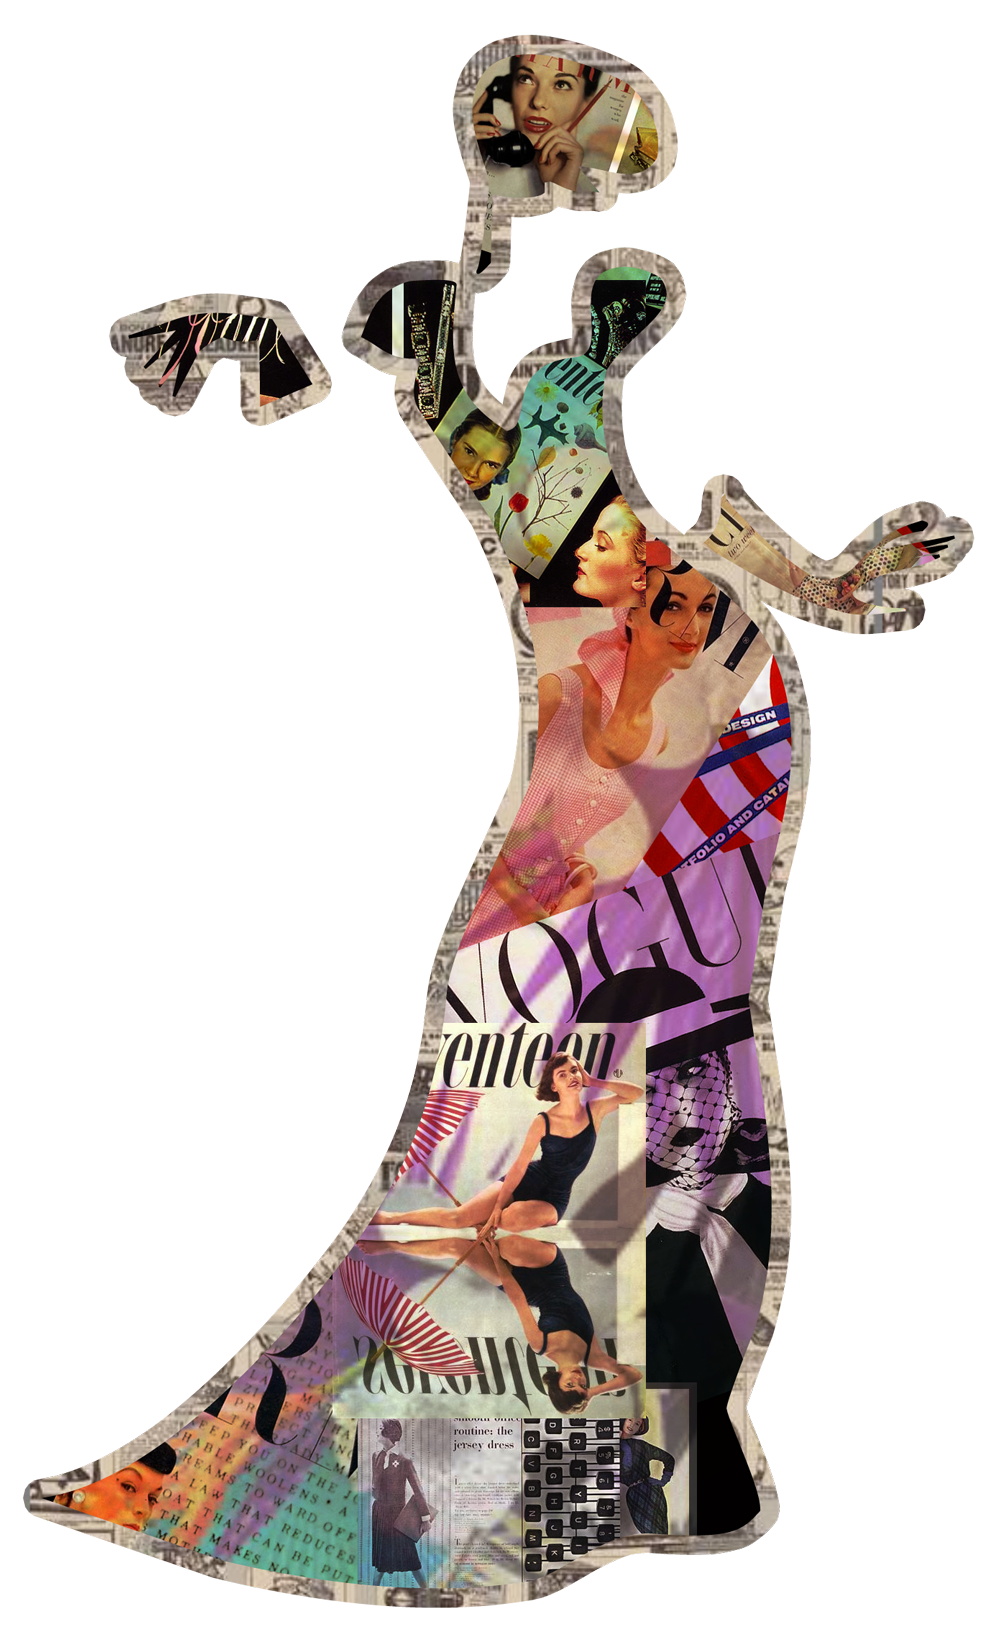
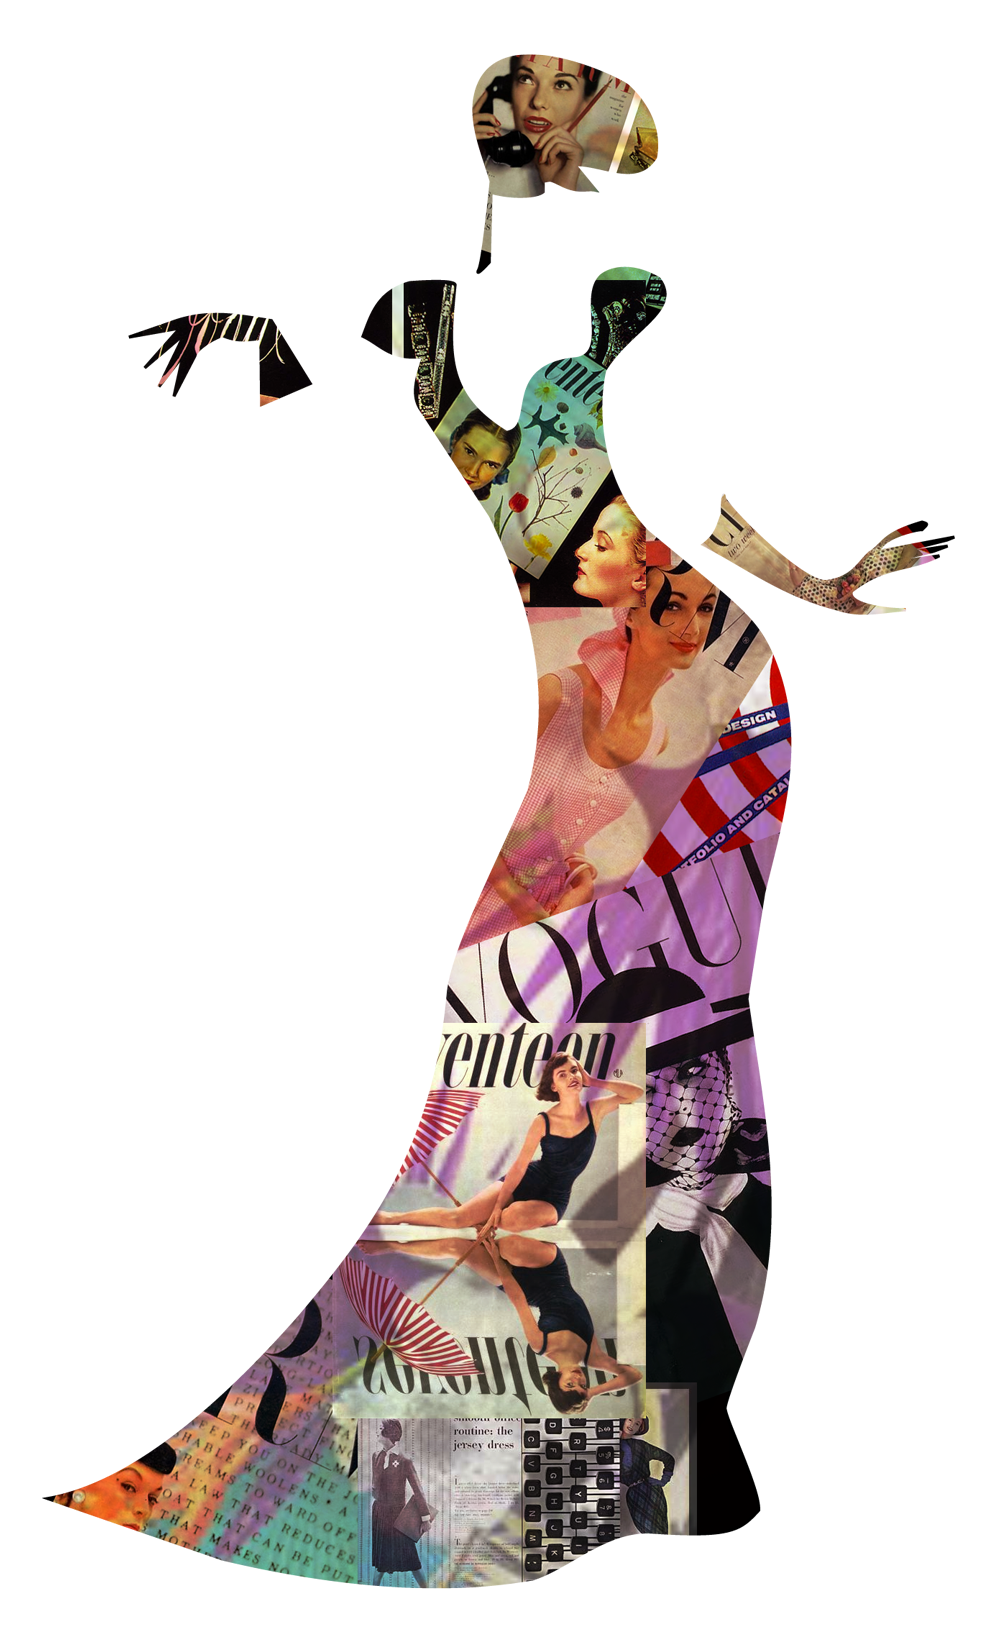
Added images, changed scss naming files

Changed region(s): [[0.279, 0.0, 0.992, 0.9576], [0.0, 0.8031, 0.558, 0.9885], [0.093, 0.1545, 0.341, 0.278]]

diff --git a/dev/styles/style.css b/dev/styles/style.css
@@ -37,7 +37,7 @@ header nav ul {
   list-style: none; }
 
 header nav ul li a {
-  font-size: 1.2em;
+  font-size: 1em;
   color: gray;
   padding: 1.25em 0.5em;
   text-decoration: none;
@@ -69,6 +69,7 @@ section:first-child{
 
 } */
 article:first-child {
+  min-height: 500px;
   position: relative; }
 
 h1, h2, h3 {
@@ -79,7 +80,8 @@ h1, h2, h3 {
   /* width: 30%; */
   position: absolute;
   z-index: 10;
-  margin-left: 1em; }
+  margin-left: 2%;
+  letter-spacing: 0.5em; }
 
 h1 {
   font-size: 3em;
@@ -100,6 +102,12 @@ h3 {
   /* position: absolute; */
   width: 80%;
   margin-left: 35%; }
+
+.figure2 img {
+  position: absolute;
+  top: 0;
+  left: 30%;
+  width: 70%; }
 
 .desc {
   /* height: 500px; */
@@ -130,6 +138,9 @@ section:nth-child(3) h2 {
   position: absolute;
   top: 25px;
   z-index: -1; }
+
+.hands {
+  margin-left: -100px; }
 
 footer {
   text-align: center;
@@ -231,4 +242,4 @@ section {
   section {
     margin: 0 3em; } }
 
[2 lines of base64/hex data omitted]

diff --git a/dev/index.html b/dev/index.html
@@ -35,10 +35,15 @@
     <main>
         <section>
             <article>
-                <div class="title"> <h1> Cipe</h1>
-                    <h1> Pineles</h1></div>
+                <div class="title"> 
+                    <h1> Cipe</h1>
+                    <h1> Pineles</h1>
+                </div>
+                <!-- <img class="hands" src="images/hands.jpg" alt=""> -->
                
-                <div class="figure"> <img src="images/silhouette.png" alt="silhouette"></div>
+                <!-- <div class="figure"> <img src="images/silhouette.png" alt="silhouette"></div> -->
+                <!-- ADD SLIDE IN ANIMATION -->
+                <div class="figure2 load-hidden"><img src="images/women-figure.png" alt=""></div> 
                 
              </article>
 
@@ -49,16 +54,16 @@
                     <p>One of the most influential yet unsung art directors of the 20th century. The graphic design career of Cipe Pineles (pronounced SEE-pee pi-NELL-iss) began when she was installed by Condé Nast himself in the office of M.F. Agha, art director for Condé Nast publications Vogue, Vanity Fair, and House and Garden. </p>
                 </div>
 
-                <div class="squares">
+                <!-- <div class="squares">
                     <img src="images/squares.png" alt="squares">
-                </div>
+                </div> -->
        
         </section>
 
 
         <section>
             <h2>Works</h2>
-            <img  class="rect" src="images/rectangle1.png" alt="">
+            <!-- <img  class="rect" src="images/rectangle1.png" alt=""> -->
 
             <article>
                 <div class="works">
@@ -71,7 +76,7 @@
 
         <section>
             <h2>Contact</h2>
-            <img  class="rect" src="images/Rectangle2.png" alt="">
+            <!-- <img  class="rect" src="images/Rectangle2.png" alt=""> -->
             <article>
                 <!-- <img src="images/Cipe_cig.jpg" alt="" srcset=""> -->
             </article>
@@ -90,8 +95,9 @@
 </footer>
 <script>
         // ScrollReveal({ reset: true });
+        ScrollReveal().reveal('.figure2', { delay: 400 });
         ScrollReveal().reveal('.title', { delay: 300 });
-        ScrollReveal().reveal('.works', { delay: 300 });
+        ScrollReveal().reveal('.works', { delay: 300, reset:true });
     </script>
 
 </html>

diff --git a/dev/scss/_main.scss b/dev/scss/_main.scss
@@ -14,7 +14,7 @@ section:first-child{
 } */
 
 article:first-child{
-    
+   min-height: 500px;
     position: relative;
 }
 
@@ -28,7 +28,8 @@ h1, h2, h3{
     /* width: 30%; */
     position: absolute;
     z-index: 10;
-    margin-left: 1em;
+    margin-left: 2%;
+    letter-spacing: 0.5em;
 
 }
 
@@ -55,6 +56,15 @@ h3{
     /* position: absolute; */
     width: 80%;
     margin-left: 35%; 
+}
+
+.figure2 img{
+     position: absolute;
+    top: 0;
+    left: 30%;
+    // margin-top: 20%;
+    width: 70%;
+    // margin-left: 28%; 
 }
 
 .desc{
@@ -90,4 +100,8 @@ section:nth-child(3) h2{
     position: absolute;
     top: 25px;
     z-index: -1;
+}
+
+.hands {
+    margin-left: -100px;
 }

diff --git a/dev/scss/_nav.scss b/dev/scss/_nav.scss
@@ -23,7 +23,7 @@ header nav{
   }
 
   header nav ul li a {
-    font-size: 1.2em;
+    font-size: 1em;
     color: gray;
     padding: 1.25em 0.5em;
     text-decoration: none;
